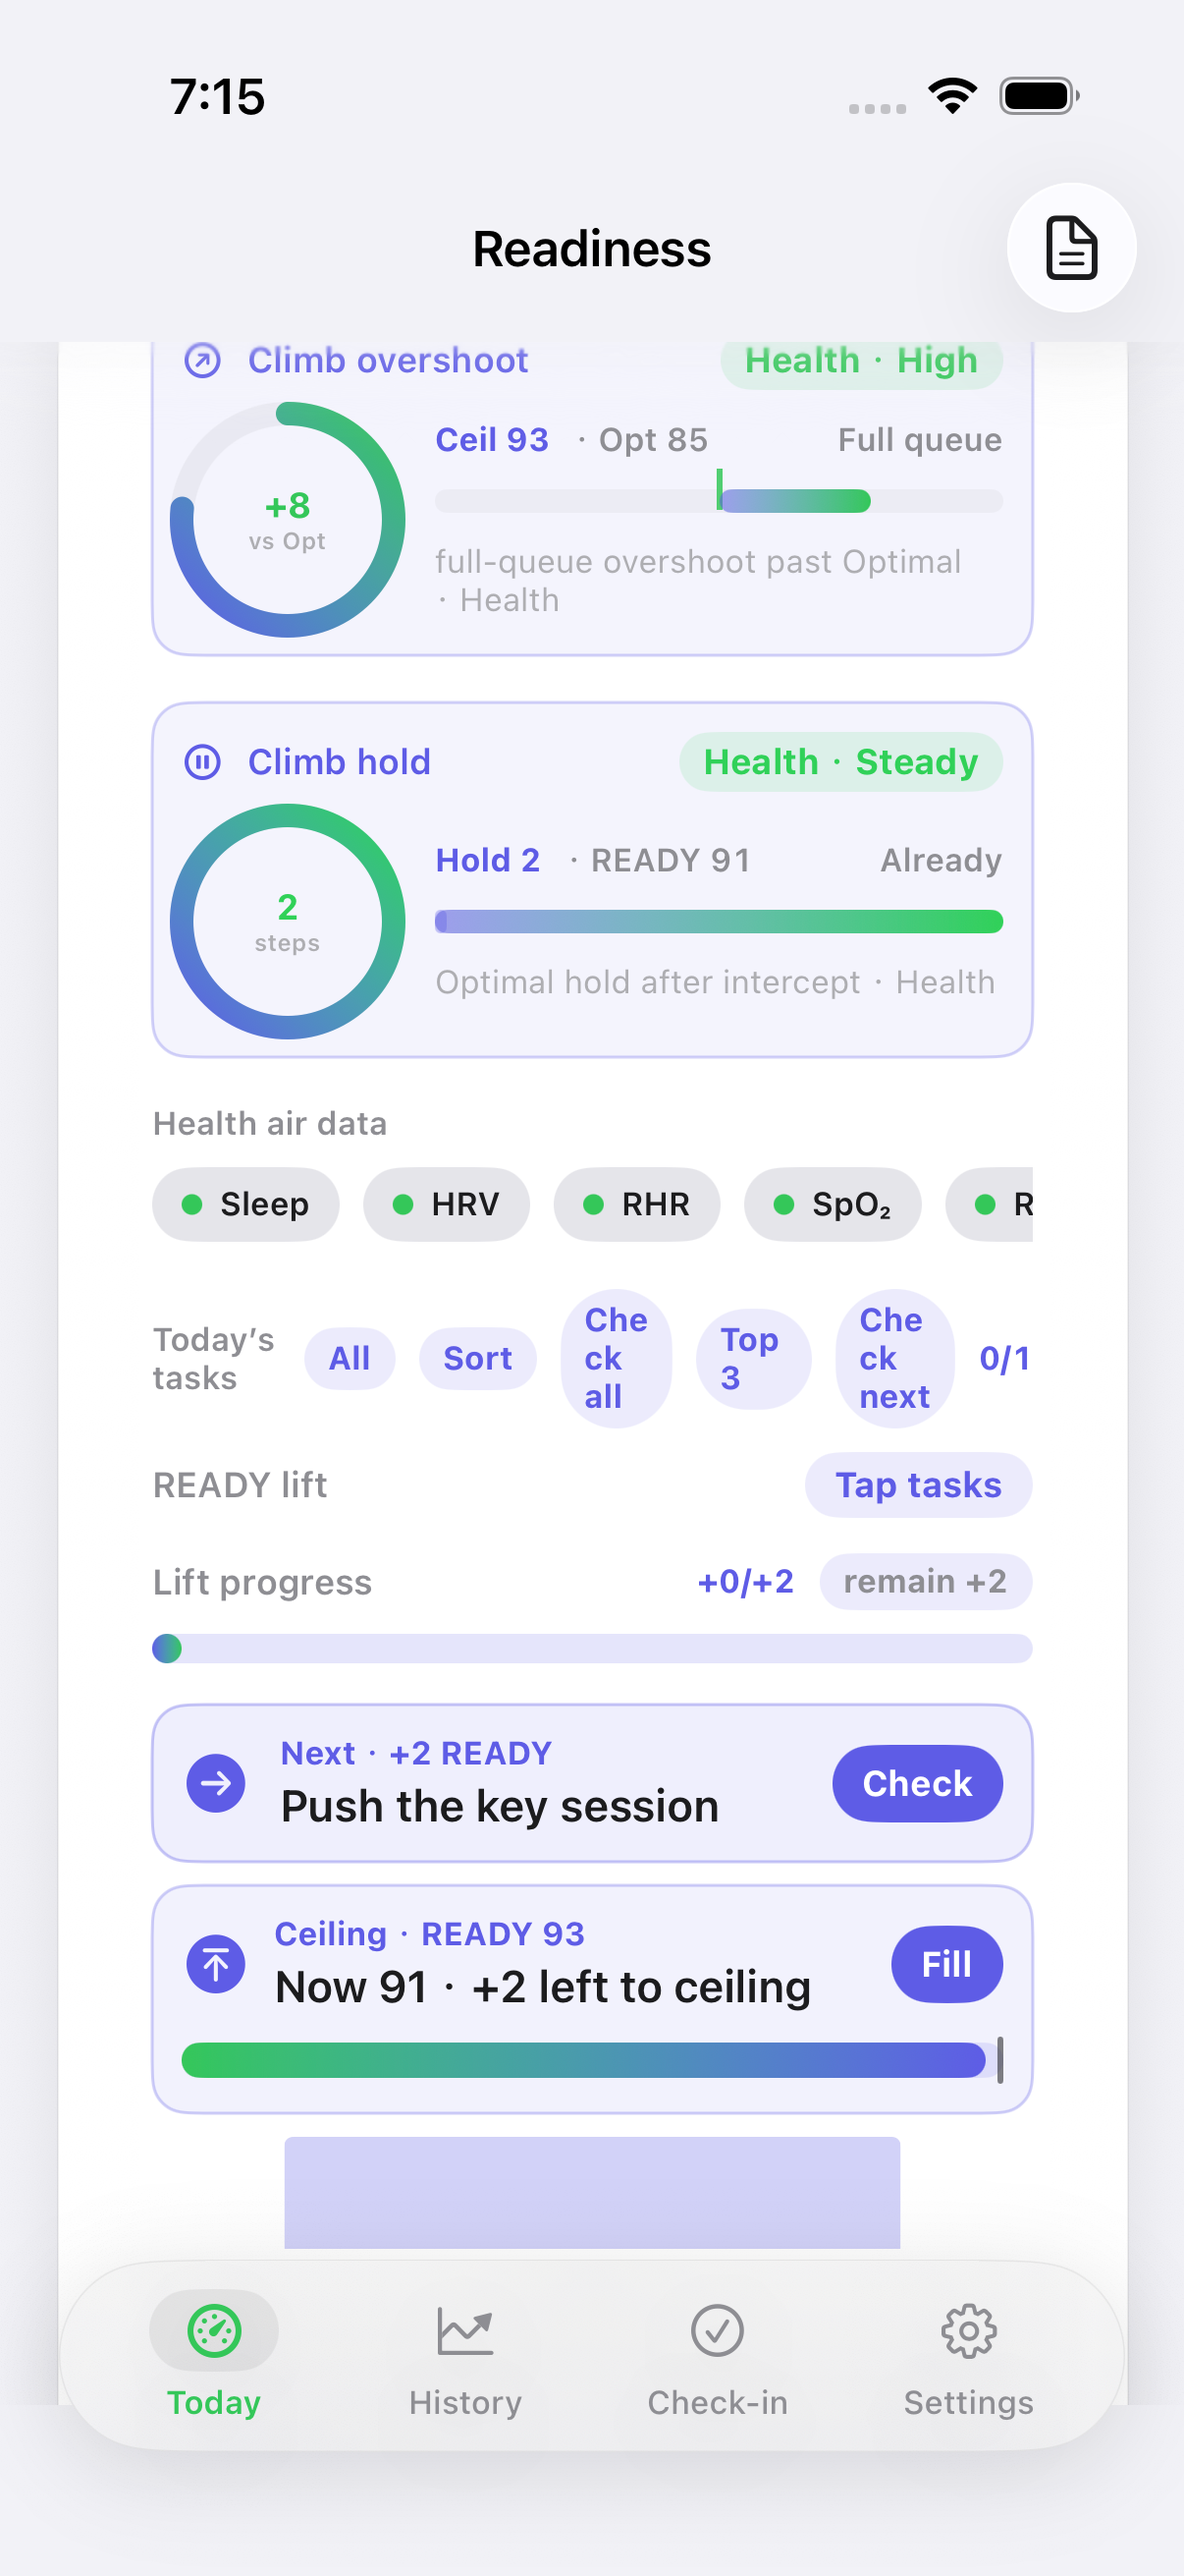
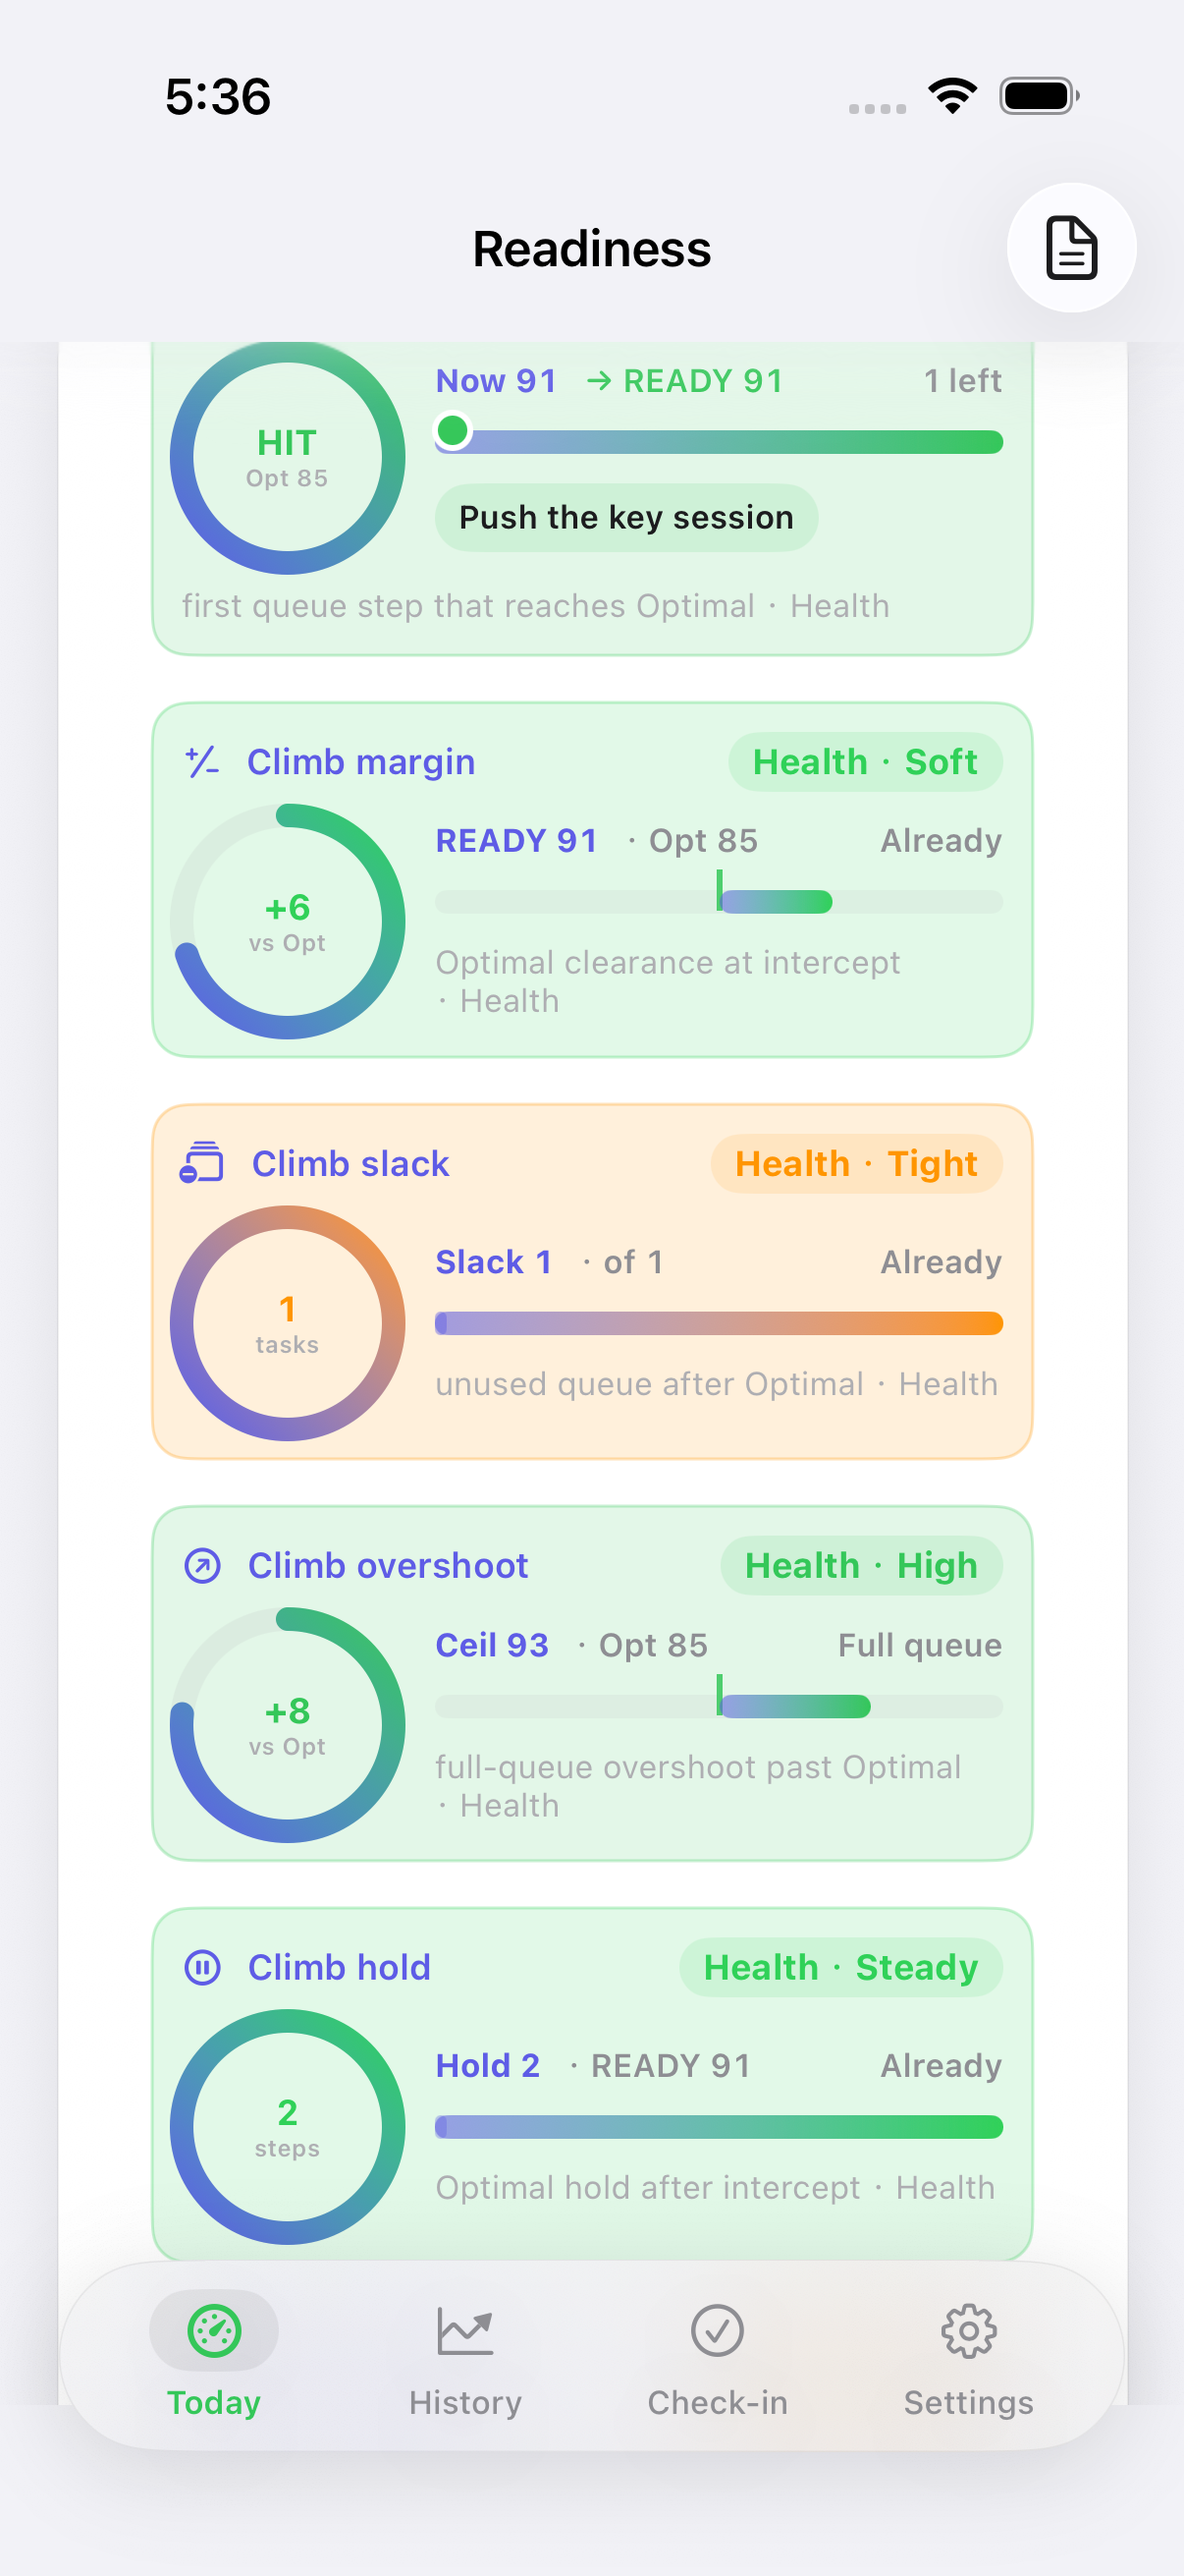
Honest #754: Simulator climb hold (WHOOP wells) (#784)
Why: keep Load Simulator climb visuals on WHOOP-well parity so the hold dial matches overshoot/slack/margin/intercept/glide/runway/surplus siblings instead of older flat accent chrome.

Restyle the existing Simulator climb hold dial (`sim.load.ready.climb.hold`, Honest #715) with WHOOP wells.

- Idle None (no Optimal intercept): ghost/hairline 8%/28% using secondaryText
- Active Brief (hold < 2): 14% fill + 28% hairline (caution)
- Active Steady (hold >= 2): 14% fill + 28% hairline (good)
- Active Locked (hold >= 4): 14% fill + 28% hairline (optimal)
- No new SurfaceID; no formula / verb / threshold / metric change

Proof: `testReadinessLoadSimulatorSurface` 765.045s, 0 failures (observer 779.052s); `.audit/verify-simulator-climb-hold.png`
model=deepseek-flash (mechanical pattern-copy of #753 wells applied locally)

diff --git a/ReadinessTracker/Views/WhoopFeatures/ReadinessLoadSimulatorCard.swift b/ReadinessTracker/Views/WhoopFeatures/ReadinessLoadSimulatorCard.swift
@@ -5178,7 +5178,7 @@ struct ReadinessLoadSimulatorCard: View {
 
 
 
-    /// Honest #715: READY climb hold — consecutive path steps at/above Optimal after intercept.
+    /// Honest #715 / #754: READY climb hold — consecutive path steps at/above Optimal after intercept (WHOOP wells).
     @ViewBuilder
     private var readyClimbHoldDial: some View {
         let pending = tasks.filter { !completedTaskIDs.contains($0.id) }.sorted { $0.readyDelta > $1.readyDelta }
@@ -5227,6 +5227,8 @@ struct ReadinessLoadSimulatorCard: View {
         let disp = "\(hold)"
         let denom = max(1, path.count)
         let progress = min(1.0, Double(hold) / Double(denom))
+        let climbHoldIsActive = interceptIdx != nil
+        let wellTone: Color = climbHoldIsActive ? tone : RTColor.secondaryText
         return VStack(alignment: .leading, spacing: 8) {
             HStack(spacing: 8) {
                 Image(systemName: "pause.circle")
@@ -5310,10 +5312,10 @@ struct ReadinessLoadSimulatorCard: View {
             }
         }
         .padding(10)
-        .background(accent.opacity(0.07), in: RoundedRectangle(cornerRadius: 12, style: .continuous))
+        .background(wellTone.opacity(climbHoldIsActive ? 0.14 : 0.08), in: RoundedRectangle(cornerRadius: 12, style: .continuous))
         .overlay(
             RoundedRectangle(cornerRadius: 12, style: .continuous)
-                .stroke(accent.opacity(0.28), lineWidth: 1)
+                .stroke(wellTone.opacity(0.28), lineWidth: 1)
         )
         .accessibilityIdentifier(SurfaceID.readinessSimulatorClimbHold)
         .accessibilityLabel("Climb hold \(verb) \(disp)")

diff --git a/ReadinessTracker/Design/Theme.swift b/ReadinessTracker/Design/Theme.swift
@@ -418,7 +418,7 @@ enum SurfaceID {
     static let readinessSimulatorClimbMargin = "sim.load.ready.climb.margin"  // Honest #712 / #751
     static let readinessSimulatorClimbSlack = "sim.load.ready.climb.slack"  // Honest #713 / #752
     static let readinessSimulatorClimbOvershoot = "sim.load.ready.climb.overshoot"  // Honest #714 / #753
-    static let readinessSimulatorClimbHold = "sim.load.ready.climb.hold"  // Honest #715
+    static let readinessSimulatorClimbHold = "sim.load.ready.climb.hold"  // Honest #715 / #754
     static let readinessSimulatorClimbCeiling = "sim.load.ready.climb.ceiling"  // Honest #716
     static let fitbitAirChipSparkRange = "fitbit.air.chip.spark.range"  // Honest #544
     static let healthAirChipSparkRange = "health.air.chip.spark.range"  // Honest #706

diff --git a/ReadinessTrackerUITests/SurfacesUITests.swift b/ReadinessTrackerUITests/SurfacesUITests.swift
@@ -11017,7 +11017,7 @@ final class SurfacesUITests: XCTestCase {
         saveShot("verify-simulator-climb-overshoot.png")
 
 
-        // Honest #715: READY climb hold
+        // Honest #715 / #754: READY climb hold (WHOOP wells)
         let climbHold = app.descendants(matching: .any)["sim.load.ready.climb.hold"].firstMatch
         XCTAssertTrue(climbHold.waitForExistence(timeout: 5)
                       || app.descendants(matching: .any)["sim.load.ready.climb.overshoot"].firstMatch.exists

diff --git a/.audit/decision-log-2026-11-04.md b/.audit/decision-log-2026-11-04.md
@@ -360,3 +360,10 @@
 
 | 05:16 HKT | #753 Simulator climb overshoot | prove | UITest suite green /tmp/RT-DD753 (774.355s, 0 failures; observer 788.465s); model=deepseek-flash |
 | 05:16 HKT | #753 Simulator climb overshoot | land | proof PNG + receipt; SID sim.load.ready.climb.overshoot; PR squash next; model=deepseek-flash |
+
+| 05:24 HKT | Honest #754 Simulator climb hold | model=deepseek-flash | restyle existing sim.load.ready.climb.hold after climb overshoot #753; WHOOP ghost/active wells; mechanical pattern-copy of #753 wells applied locally (no separate model iterate needed) | mid-ship |
+| 05:24 HKT | Honest #754 Simulator climb hold | prove | started UITest /tmp/RT-DD754; model=deepseek-flash | mid-ship |
+
+| 05:42 HKT | #754 Simulator climb hold | prove | UITest suite green /tmp/RT-DD754 (765.045s, 0 failures; observer 779.052s); model=deepseek-flash |
+| 05:42 HKT | #754 Simulator climb hold | land | proof PNG + receipt; SID sim.load.ready.climb.hold; PR squash next; model=deepseek-flash |
+

diff --git a/.audit/simulator-climb-hold.md b/.audit/simulator-climb-hold.md
@@ -1,5 +1,6 @@
-# Honest #715: Simulator climb hold
+# Honest #715 / #754: Simulator climb hold (WHOOP wells)
 
-Consecutive path steps at/above Optimal (85) after intercept (Locked/Steady/Brief/None).
+Consecutive path steps at/above Optimal (85) after intercept. Locked/Steady/Brief/None dial.
+Idle None (no Optimal intercept) = ghost/hairline 8/28 using secondaryText; active Brief (hold < 2) = 14 fill + 28 hairline (caution); active Steady (hold >= 2) = 14 fill + 28 hairline (good); active Locked (hold >= 4) = 14 fill + 28 hairline (optimal).
 SurfaceID: `sim.load.ready.climb.hold`
 Proof: `.audit/verify-simulator-climb-hold.png`

diff --git a/.audit/features/simulator-climb-hold.md b/.audit/features/simulator-climb-hold.md
@@ -1,4 +1,6 @@
-# Honest #715: Simulator climb hold
+# Honest #715 / #754: Simulator climb hold (WHOOP wells)
 
 SurfaceID: `sim.load.ready.climb.hold`
+Idle None (no Optimal intercept) = ghost/hairline 8/28 using secondaryText; active Brief (hold < 2) = 14 fill + 28 hairline (caution); active Steady (hold >= 2) = 14 fill + 28 hairline (good); active Locked (hold >= 4) = 14 fill + 28 hairline (optimal).
 Proof: `.audit/verify-simulator-climb-hold.png`
+UITest: `testReadinessLoadSimulatorSurface`
